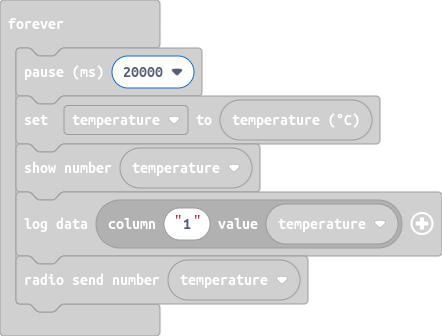
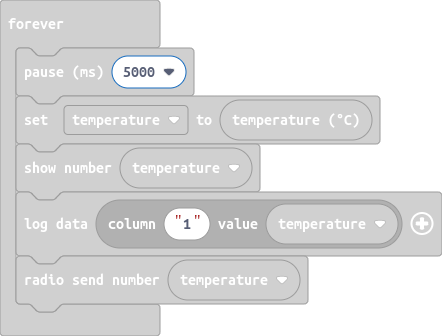
5s Interval - check min temp

Changed region(s): [[0.3529, 0.119, 0.4706, 0.2976], [0.2647, 0.2083, 0.2941, 0.2381]]

diff --git a/main.ts b/main.ts
@@ -6,7 +6,7 @@ control.deviceName(),
 radio.setGroup(1)
 datalogger.log(datalogger.createCV(control.deviceName(), control.deviceSerialNumber()))
 basic.forever(function () {
-    basic.pause(20000)
+    basic.pause(5000)
     temperature = input.temperature()
     basic.showNumber(temperature)
     datalogger.log(datalogger.createCV("1", temperature))
